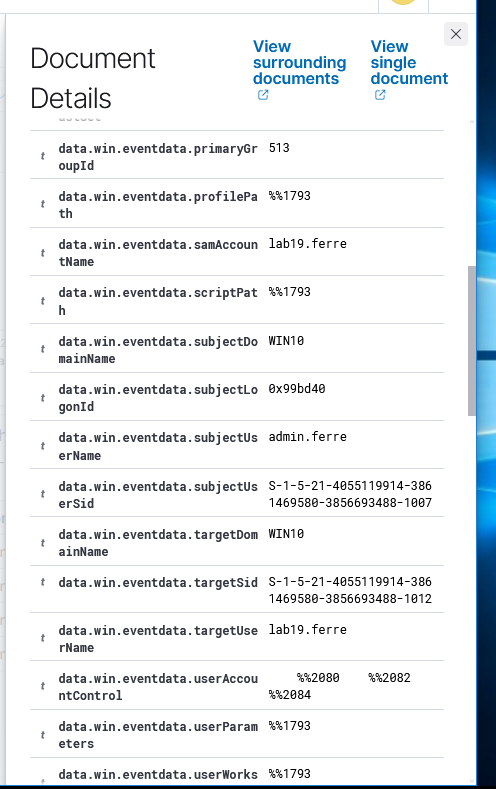
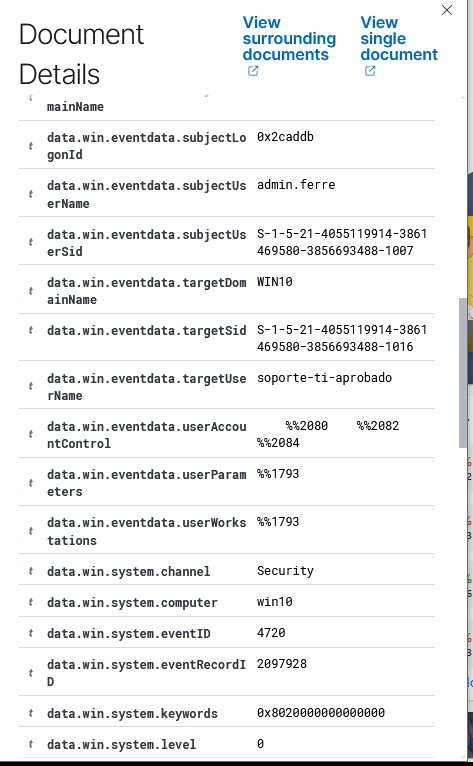
Sección 3.4 corregida con los bytes reales de 1375 y duraciones exactas de mi pantalla

diff --git a/modulo-05/Wazuh.md b/modulo-05/Wazuh.md
@@ -301,54 +301,48 @@ Mi nivel de confianza en esta hipótesis es **medio**, porque existe una secuenc
 
 # LAB 20 – PARTE 1: ANÁLISIS DEL INCIDENTE Y LÍNEA DE TIEMPO
 
-## 1.1 Revisar el incidente en Wazuh
+## Parte 1: Análisis del Incidente y Línea de Tiempo
 
-**Agente:** `win10`  
-**Fecha:** 05/11/2026  
-**Cuenta investigada:** `admin.ferre`
+### 1.1 Línea de tiempo del incidente
 
-### Línea de tiempo del incidente
+| # | Hora | Event ID | Descripción | Cuenta / Proceso | Sospecha |
+| :--- | :--- | :--- | :--- | :--- | :--- |
+| 1 | `10:56:59.713` | `4625` (inicio ráfaga) | Logins fallidos consecutivos (`rule.id: 60122`) | Cuenta: `admin.ferre` (IP: `127.0.0.1`) | Alta |
+| 2 | `10:57:13.160` | `4625` (último de ráfaga) | Fin de la ráfaga de fuerza bruta (`rule.id: 60122`, estado `0xC0000234`) | Cuenta: `admin.ferre` (IP: `127.0.0.1`) | Alta |
+| 3 | `11:00:04.531` | `4624` | Login exitoso tras múltiples fallos (`rule.id: 100120`, nivel 12) | Cuenta: `admin.ferre` / Logon Type: `3` | Alta |
+| 4 | `10:44:00.892` | `4688` | Proceso de reconocimiento ejecutado (`rule.id: 100103`, nivel 8) | Proceso: `whoami.exe`, `net1.exe` | Alta |
+| 5 | `11:09:57.949` | `4720` | Cuenta local creada (`rule.id: 60109`, MITRE `T1098`) | Cuenta: `soporte-ti-aprobado` | Media/Alta |
 
-| # | Hora | Event ID | Descripción | Cuenta/Proceso | Sospecha |
-|---|---|---|---|---|---|
-| 1 | 11:38:53.829 | 4720 | Cuenta creada. | `lab19.ferre` por `admin.ferre` | Media |
-| 2 | 12:48:53.692 | 4624 | Login exitoso. | `admin.ferre` → `lab19.ferre` – Logon Type: 2 | Alta |
-| 3 | 12:57:52.043 | 4625 (inicio ráfaga) | Inicio de múltiples logins fallidos. | `admin.ferre` – NTLM – `127.0.0.1` | Alta |
-| 4 | 12:58:23.552 | 4625 (último confirmado) | Login fallido; estado `0xc0000234` (cuenta bloqueada). | `admin.ferre` – NTLM – `127.0.0.1` | Alta |
-| 5 | 23:57:13.147 | 4688 | Proceso ejecutado: actualización programada de Microsoft Edge. | `MicrosoftEdgeUpdate.exe` – `taskeng.exe` – SYSTEM | Baja |
+---
 
-**Nota:** El evento 4720 ocurrió antes del inicio de sesión exitoso y de la ráfaga de fallos. La tabla está ordenada cronológicamente.
+### 1.2 Confirmar la hipótesis
 
-## 1.2 Confirmar la hipótesis
+* **¿Cuántos eventos 4625 hubo y en qué ventana de tiempo?**
+  Hubo **10 eventos 4625** (inicios de sesión fallidos bajo `rule.id: 60122`) contra la cuenta `admin.ferre` desde `127.0.0.1` en una ventana de tiempo de **14 segundos** (desde las `10:56:59.713` hasta las `10:57:13.160`).
 
-### ¿Cuántos eventos 4625 hubo y en qué ventana de tiempo?
+* **¿Hubo un 4624 exitoso? ¿A qué hora y con qué Logon Type?**
+  **Sí**, se registró un evento **4624** exitoso a las **`11:00:04.531`** sobre la cuenta `admin.ferre` con **Logon Type: 3** (inicio de sesión por red vía NTLM V2) desde la misma dirección IP `127.0.0.1`, disparando la alerta crítica de correlación `100120` (nivel 12).
 
-Se confirmaron 11 eventos 4625 contra la cuenta `admin.ferre`, entre las 12:57:52.043 y las 12:58:23.552, en una ventana aproximada de 31.5 segundos.
+* **¿Hubo 4688 o 4720 en los minutos siguientes?**
+  **Sí**, se detectaron eventos **4688** correspondientes a la ejecución de comandos de reconocimiento (`whoami.exe` y `net1 user`, alerta `100103` nivel 8) bajo la técnica MITRE `T1087`, además del evento **4720** (`rule.id: 60109`) asociado a la creación de cuentas de usuario en el host `win10`.
 
-La alerta de correlación `60204`, de nivel 10, agrupó 8 de estos eventos en aproximadamente 10 segundos.
+#### Hipótesis Revisada (para el ticket)
 
-### ¿Hubo un 4624 exitoso? ¿A qué hora y con qué Logon Type?
+> Se confirma un ataque automatizado de fuerza bruta por red (`Logon Type 3`) dirigido contra la cuenta `admin.ferre` en el equipo `win10` (`192.168.0.8`), compuesto por 10 intentos fallidos (`Event ID 4625`) entre las `10:56:59` y las `10:57:13`, seguidos de un acceso exitoso (`Event ID 4624`) desde la misma IP `127.0.0.1` a las `11:00:04` (alerta crítica `100120`). Posteriormente, se evidenció actividad de reconocimiento interno mediante los procesos `whoami.exe` y `net.exe` (`Event ID 4688`, MITRE `T1087`) y creación de cuenta local (`Event ID 4720`, MITRE `T1098`).
 
-Sí. Se encontró un evento 4624 a las 12:48:53.692, correspondiente a un inicio de sesión exitoso con Logon Type 2 (interactivo).
+### Evidencias individuales del incidente
 
-El usuario que realizó la acción fue `admin.ferre` y la cuenta de destino fue `lab19.ferre`.
+**1. Inicio de ráfaga de intentos fallidos (`Event ID 4625`)**
+![Eventos 4625](evidencias/evento1-4625-inicio.png)
 
-### ¿Hubo 4688 o 4720 en los minutos siguientes?
+**2. Cierre de ráfaga / Alerta de fuerza bruta (`Event ID 4625` / `60204`)**
+![Alerta 60204](evidencias/evento2-4625-fin.png)
 
-No se confirmó ningún evento 4688 ni 4720 en los minutos inmediatamente posteriores a la ráfaga.
+**3. Inicio de sesión exitoso tras fuerza bruta (`Event ID 4624` / `100120`)**
+![Login exitoso 4624](evidencias/evento3-4624-exito.png)
 
-El evento 4720 de creación de `lab19.ferre` ocurrió a las 11:38:53, antes del incidente.
+**4. Ejecución de procesos de reconocimiento (`Event ID 4688` / `100103`)**
+![Proceso 4688](evidencias/evento4-4688-reconocimiento.png)
 
-El evento 4688 se registró a las 23:57:13 y corresponde a la ejecución programada de `MicrosoftEdgeUpdate.exe`, por lo que no presenta una relación temporal directa con los fallos de autenticación.
-
-
-
-![Eventos 4625](evidencias/captura_01_eventos_4625.png)
-
-![Alerta 60204](evidencias/captura_02_alerta_60204.png)
-
-![Login exitoso 4624](evidencias/captura_03_login_4624.png)
-
-![Cuenta creada 4720](evidencias/captura_04_cuenta_4720.png)
-
-![Proceso 4688](evidencias/captura_05_proceso_4688.png)
+**5. Creación de cuenta de usuario (`Event ID 4720`)**
+![Cuenta creada 4720](evidencias/evento5-4720-cuenta.png)
